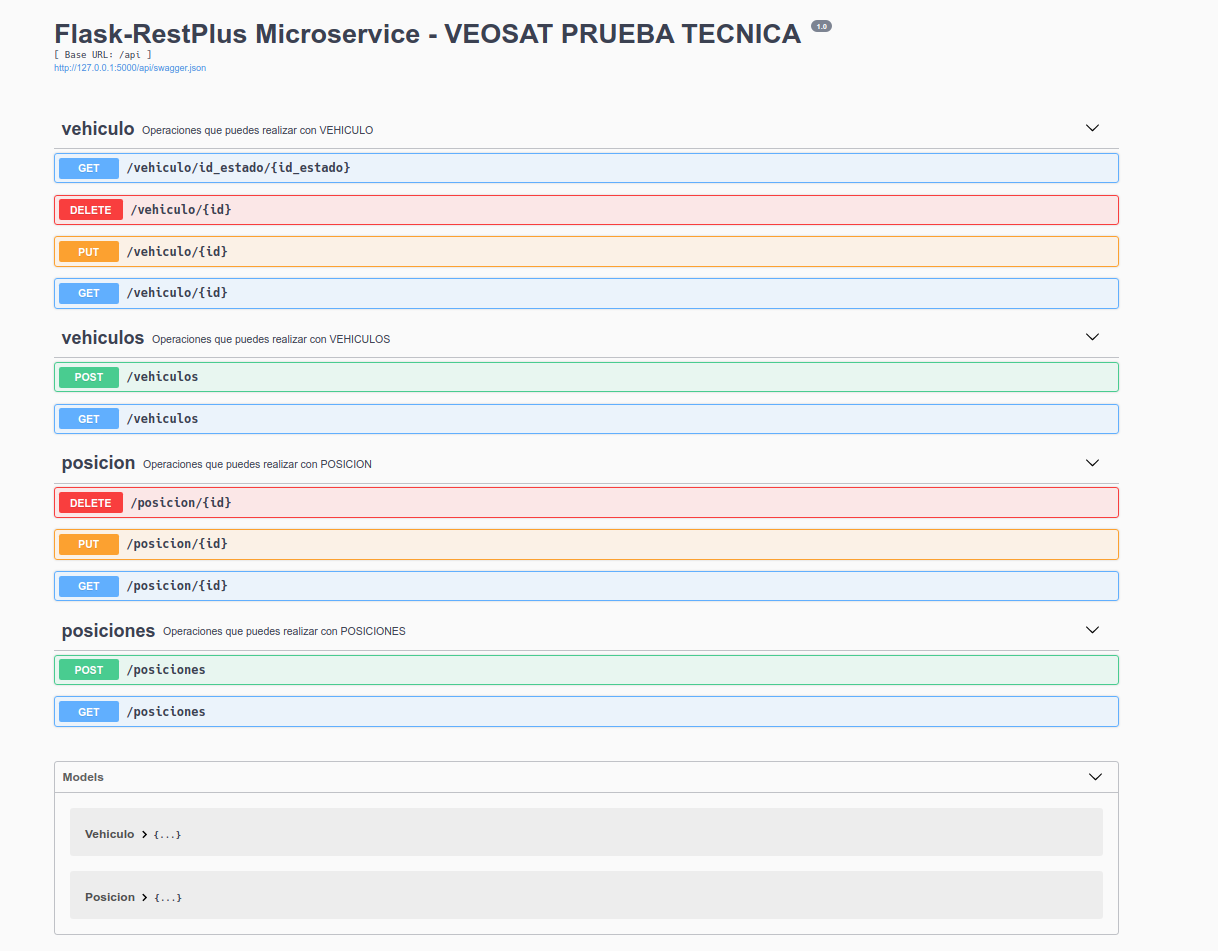
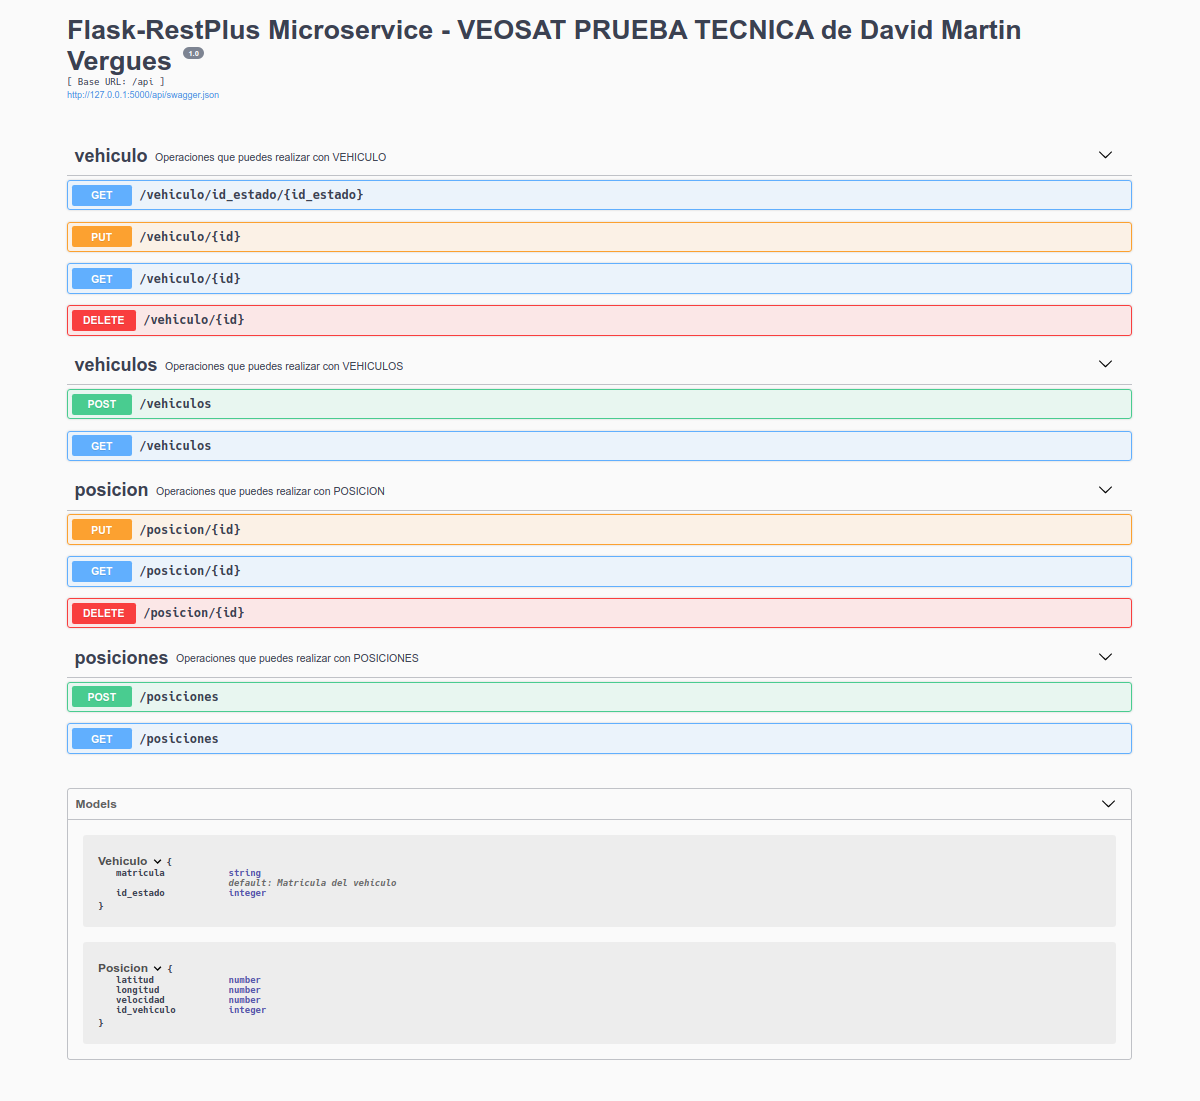
retoque

diff --git a/flask-restplus-app/app.py b/flask-restplus-app/app.py
@@ -11,7 +11,7 @@ from marshmallow import ValidationError
 
 app = Flask(__name__)
 bluePrint = Blueprint('api', __name__, url_prefix='/api')
-api = Api(bluePrint, doc='/doc', title='Flask-RestPlus Microservice - VEOSAT PRUEBA TECNICA ')
+api = Api(bluePrint, doc='/doc', title='Flask-RestPlus Microservice - VEOSAT PRUEBA TECNICA de David Martin Vergues ')
 app.register_blueprint(bluePrint)
 app.config['SQLALCHEMY_DATABASE_URI'] = f'mysql+pymysql://{user}:{passwd}@{host}/{database}' 
 app.config['SQLALCHEMY_TRACK_MODIFICATIONS'] = False
